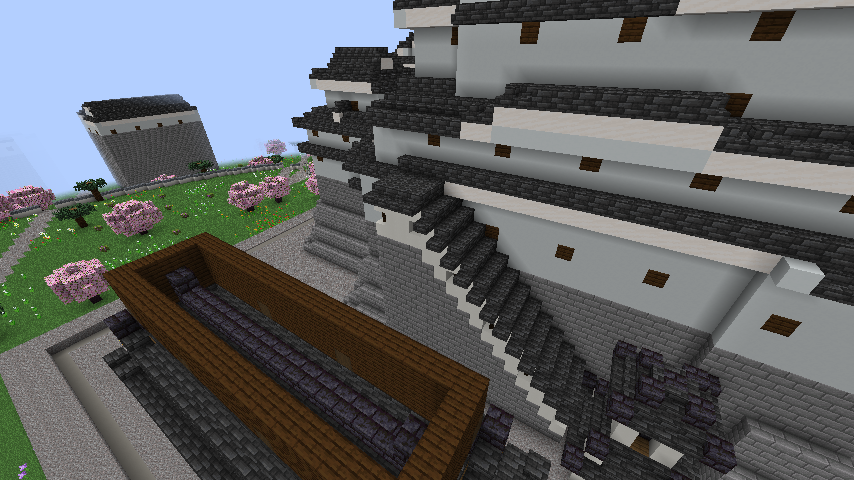
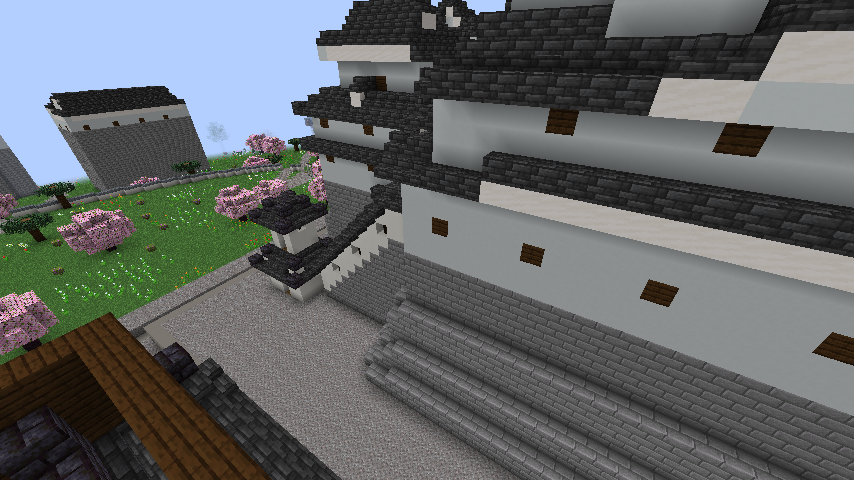
Keep entrance moved to the side wing
The keep is no longer entered through its main body. The surveyed model joins
the small keeps and galleries on to it, and the entrance now goes into that
side wing: the longest stretch of the front set back from the main body's face.
Its door opens at the stone base's top storey, at the end next to the main
body. The covered flight climbs along the wing's face, closed at its upper end
by the main body, and the entrance turret stands at its foot.

diff --git a/core/src/main/java/com/mtm/citybuilder/core/building/landmark/ParkParts.java b/core/src/main/java/com/mtm/citybuilder/core/building/landmark/ParkParts.java
@@ -474,21 +474,51 @@ public final class ParkParts {
     static final int KEEP_BASE = 11;
     /** How far the base's foot spreads out from its face (扇の勾配: steep at the top, flaring at the foot). */
     static final int KEEP_BATTER = 4;
-    /** The keep's first storey's floor over the upper court, where its door opens. */
-    static final int KEEP_DOOR_FLOOR = 12;
+    /** The side wing's floor over the upper court where its door opens: the base's top storey (its 地階). */
+    static final int KEEP_DOOR_FLOOR = 9;
 
     /** The entrance turret's half width (付櫓, at the foot of the keep's flight). */
     static final int ENTRANCE_RADIUS = 3;
 
     /**
-     * The keep's stone base battered and climbed: round its upright masonry a foot of stone that flares out
-     * {@link #KEEP_BATTER} blocks, high by the face and falling away on a concave curve; and up its front, along the
-     * face, a flight of stone steps three wide from the upper court to a landing at the first storey's floor, with a
-     * door cut through the wall there. The flight is not bare: it runs inside a covered gallery (渡櫓: a stone base,
-     * white plaster walls with slit windows, a tiled roof stepping up with it), entered by a small two-storey turret
-     * (付櫓) at its foot whose door faces the court, as the keep of Himeji is entered through its small gates and
-     * turrets. In the court's frame: the keep's corner at (kx, ky, kz), its front to +z, the upper court between x0
-     * and x1 and up to z1.
+     * Where the keep is entered, in the keep model's own frame (front to +z): {first and last column of the door,
+     * the front face's z there, the column of the flight's foot}. Not the main body: the side wing beside it (the
+     * small keeps and galleries the survey joins on to it), the longest stretch of the front that stands back from
+     * the main body's face, its door at the end next to the main body.
+     */
+    static int[] keepEntrance() {
+        Model keep = CastleAsset.KEEP.template();
+        int kw = keep.width();
+        int[] face = new int[kw];
+        java.util.Arrays.fill(face, -1);
+        keep.forEach((x, y, z, state) -> {
+            if (y == 0 && z > face[x]) face[x] = z;
+        });
+        int main = 0;
+        for (int f : face) main = Math.max(main, f);
+        int bestStart = -1, bestLength = 0;
+        for (int x = 0; x < kw; ) {
+            int end = x;
+            while (end + 1 < kw && face[end + 1] == face[x]) end++;
+            if (face[x] >= 0 && face[x] < main - 2 && end - x + 1 > bestLength) {
+                bestStart = x;
+                bestLength = end - x + 1;
+            }
+            x = end + 1;
+        }
+        int runEnd = bestStart + bestLength - 1;
+        return new int[]{runEnd - 2, runEnd, face[runEnd], runEnd - 3 - (KEEP_DOOR_FLOOR - 1)};
+    }
+
+    /**
+     * The keep's stone base battered and entered: round its upright masonry a foot of stone that flares out
+     * {@link #KEEP_BATTER} blocks, high by the face and falling away on a concave curve. It is entered, as Himeji's
+     * is, not through the main body but through the side wing beside it ({@link #keepEntrance}): a small two-storey
+     * turret (付櫓) on the upper court, its door facing the court, opens on to a flight of stone steps three wide that
+     * climbs along the wing's face inside a covered gallery (渡櫓: a stone base, white plaster walls with slit
+     * windows, a tiled roof stepping up with it) to a landing before a door into the wing at the base's top storey.
+     * In the court's frame: the keep's corner at (kx, ky, kz), its front to +z, the upper court between x0 and x1 and
+     * up to z1.
      */
     static void keepBase(Model m, int kx, int ky, int kz, int x0, int x1, int z1) {
         Model keep = CastleAsset.KEEP.template();
@@ -497,28 +527,17 @@ public final class ParkParts {
         keep.forEach((x, y, z, state) -> {
             if (y == 0) foot[x][z] = true;
         });
-        int mid = kx + kw / 2;
-        // The front face along the middle, and the flight's place before it
-        int face = kz;
-        for (int z = kd - 1; z >= 0; z--) {
-            if (foot[kw / 2][z]) {
-                face = kz + z;
-                break;
-            }
-        }
-        int stairZ0 = face + 1, stairZ1 = face + 3;
-        int stairX0 = mid - 1, stairX1 = mid + 1 + KEEP_DOOR_FLOOR;
-        // The gallery round the flight (its outer wall a block out, its west end wall a block past the landing)
-        // and the entrance turret east of its foot
-        int galleryX0 = stairX0 - 1, galleryZ1 = stairZ1 + 1;
-        int turretX0 = stairX1 + 1, turretX1 = turretX0 + 2 * ENTRANCE_RADIUS;
+        int[] entrance = keepEntrance();
+        int doorX0 = kx + entrance[0], doorX1 = kx + entrance[1], face = kz + entrance[2], footX = kx + entrance[3];
+        int stairZ0 = face + 1, stairZ1 = face + 3, galleryZ1 = stairZ1 + 1;
+        int turretX1 = footX - 1, turretX0 = turretX1 - 2 * ENTRANCE_RADIUS;
         int turretZ0 = stairZ0, turretZ1 = turretZ0 + 2 * ENTRANCE_RADIUS;
         String stone = "minecraft:stone_bricks";
         for (int x = x0 + 1; x < x1; x++) {
             for (int z = 1; z < z1; z++) {
                 int lx = x - kx, lz = z - kz;
                 if (lx >= 0 && lx < kw && lz >= 0 && lz < kd && foot[lx][lz]) continue;
-                if (x >= galleryX0 && x <= stairX1 && z >= stairZ0 && z <= galleryZ1 + 1) continue;
+                if (x >= footX && x <= doorX1 + 1 && z >= stairZ0 && z <= galleryZ1 + 1) continue;
                 if (x >= turretX0 - 1 && x <= turretX1 + 1 && z >= turretZ0 && z <= turretZ1 + 1) continue;
                 double d = Double.MAX_VALUE;
                 for (int dx = -KEEP_BATTER; dx <= KEEP_BATTER; dx++) {
@@ -532,45 +551,45 @@ public final class ParkParts {
                 for (int y = 0; y < h; y++) m.set(x, ky + y, z, stone);
             }
         }
-        // The flight: a landing before the door, then a step down each block eastwards to the court
-        for (int x = stairX0; x <= stairX1; x++) {
-            int top = x <= mid + 1 ? KEEP_DOOR_FLOOR : KEEP_DOOR_FLOOR - (x - mid - 1);
-            for (int z = stairZ0; z <= stairZ1; z++) {
-                for (int y = 0; y < top; y++) m.set(x, ky + y, z, stone);
-                m.set(x, ky + top, z, x <= mid + 1 ? "citybuilder:stone_ashlar"
-                        : "minecraft:stone_stairs[facing=west,half=bottom,shape=straight,waterlogged=false]");
-                for (int y = top + 1; y <= top + 3; y++) m.remove(x, ky + y, z);
-            }
-        }
-        // The gallery: its outer wall and west end on a stone base to the step's level, plastered three high with a
-        // slit window every third block, a tiled roof over it a block above the headroom, stepping with the flight
+        // The flight inside its gallery: from its foot a step up each block eastwards to the landing before the
+        // door; the gallery's outer wall a stone base to the step's level, plastered three high with a slit window
+        // every third block, a tiled roof over it stepping up with the flight. Where the main body stands at the
+        // landing's end it closes the gallery; otherwise an end wall does.
         String plaster = "citybuilder:plaster_white", tile = "minecraft:deepslate_tiles";
-        for (int x = galleryX0; x <= stairX1; x++) {
-            int top = x <= mid + 1 ? KEEP_DOOR_FLOOR : KEEP_DOOR_FLOOR - (x - mid - 1);
+        for (int x = footX; x <= doorX1 + 1; x++) {
+            int lx = x - kx;
+            boolean closed = x == doorX1 + 1 && lx < kw && foot[lx][face - kz + 1];
+            if (closed) break;
+            int top = Math.min(KEEP_DOOR_FLOOR, x - footX);
             for (int z = stairZ0; z <= galleryZ1; z++) {
-                boolean outer = z == galleryZ1 || x == galleryX0;
+                boolean outer = z == galleryZ1 || x == doorX1 + 1;
                 if (outer) {
                     for (int y = 0; y <= top; y++) m.set(x, ky + y, z, stone);
                     for (int y = top + 1; y <= top + 3; y++) {
                         m.set(x, ky + y, z, y == top + 2 && z == galleryZ1 && Math.floorMod(x, 3) == 0
                                 ? "minecraft:dark_oak_fence" : plaster);
                     }
+                } else {
+                    for (int y = 0; y < top; y++) m.set(x, ky + y, z, stone);
+                    m.set(x, ky + top, z, x >= doorX0 ? "citybuilder:stone_ashlar"
+                            : "minecraft:stone_stairs[facing=east,half=bottom,shape=straight,waterlogged=false]");
+                    for (int y = top + 1; y <= top + 3; y++) m.set(x, ky + y, z, "minecraft:air");
                 }
                 m.set(x, ky + top + 4, z, tile);
             }
             m.set(x, ky + top + 4, galleryZ1 + 1, "minecraft:deepslate_tile_slab[type=bottom,waterlogged=false]");
         }
-        // The entrance turret: two storeys on the upper court, its door facing the court (+z), open on its west
+        // The entrance turret: two storeys on the upper court, its door facing the court (+z), open on its east
         // side to the flight's foot
         Model turret = new Model();
         com.mtm.citybuilder.core.building.temple.CastleTurret.build(ENTRANCE_RADIUS, 2).forEach((x, y, z, state) ->
                 turret.set(x, y, z, state.equals("minecraft:white_terracotta") ? plaster : state));
         m.place(turret, turretX0, ky - 1, turretZ0, true);
         for (int z = stairZ0; z <= stairZ1; z++) {
-            for (int y = 0; y <= 2; y++) m.set(turretX0, ky + y, z, "minecraft:air");
+            for (int y = 0; y <= 2; y++) m.set(turretX1, ky + y, z, "minecraft:air");
         }
-        // The door: through the wall at the first storey, its sill the floor
-        for (int x = mid - 1; x <= mid + 1; x++) {
+        // The door into the wing: through its base's wall at the top storey, its sill the floor
+        for (int x = doorX0; x <= doorX1; x++) {
             for (int z = face - 1; z <= face; z++) {
                 m.set(x, ky + KEEP_DOOR_FLOOR, z, "minecraft:spruce_planks");
                 for (int y = KEEP_DOOR_FLOOR + 1; y <= KEEP_DOOR_FLOOR + 2; y++) m.set(x, ky + y, z, "minecraft:air");

diff --git a/core/src/test/java/com/mtm/citybuilder/core/building/landmark/CivicTest.java b/core/src/test/java/com/mtm/citybuilder/core/building/landmark/CivicTest.java
@@ -48,36 +48,34 @@ class CivicTest {
             assertTrue(h > 0 && h < previous, "batter at " + d + ": " + h);
             previous = h;
         }
-        // The flight rises a block a step from the court to the landing before the door, which opens on the floor
-        int face = depth - 1;
-        while (!"minecraft:air".equals(court.get(mid, ky + ParkParts.KEEP_DOOR_FLOOR + 1, face))) face--;
-        int z = face + 2;
+        // The door is in the side wing, set back from the main body's face, not in the main body
+        int[] entrance = ParkParts.keepEntrance();
+        int keepFace = 0;
+        for (int z = 0; z < HimejiKeep.depth(); z++) if (court.has(mid, ky, 4 + z)) keepFace = z;
+        assertTrue(entrance[2] < keepFace - 2, "door in the main body's face");
+        int face = 4 + entrance[2], z = face + 2;
+        int doorX = kx + entrance[1] - 1, footX = kx + entrance[3];
+        for (int y = 1; y <= 2; y++) {
+            assertEquals("minecraft:air", court.get(doorX, ky + ParkParts.KEEP_DOOR_FLOOR + y, face), "door");
+        }
+        // The flight rises a block a step from its foot to the landing, under a roof, beside a plastered wall
         int last = -1;
-        for (int x = mid + 1 + ParkParts.KEEP_DOOR_FLOOR; x >= mid + 2; x--) {
+        for (int x = footX; x < kx + entrance[0]; x++) {
             int top = ky;
-            while (court.has(x, top + 1, z)) top++;
+            while (court.has(x, top + 1, z) && !court.get(x, top + 1, z).equals("minecraft:air")) top++;
             assertTrue(court.get(x, top, z).startsWith("minecraft:stone_stairs"), "step at " + x + ": " + court.get(x, top, z));
             if (last >= 0) assertEquals(last + 1, top, "rise at " + x);
             last = top;
-            assertTrue(!court.has(x, top + 1, z) && !court.has(x, top + 2, z), "headroom at " + x);
-        }
-        assertEquals("citybuilder:stone_ashlar", court.get(mid, ky + ParkParts.KEEP_DOOR_FLOOR, z));
-        // The flight is covered: a plastered outer wall beside each step and a roof over it
-        for (int x = mid + 2; x <= mid + 1 + ParkParts.KEEP_DOOR_FLOOR; x++) {
-            int top = ky;
-            while (court.has(x, top + 1, z)) top++;
+            for (int y = 1; y <= 2; y++) assertEquals("minecraft:air", court.get(x, top + y, z), "headroom at " + x);
             assertEquals("citybuilder:plaster_white", court.get(x, top + 1, face + 4), "gallery wall at " + x);
             assertTrue(court.get(x, top + 4, z).startsWith("minecraft:deepslate_tile"), "gallery roof at " + x);
         }
-        // and entered by a turret at its foot, open to the flight, roofed in tiles
-        int turretX = mid + 2 + ParkParts.KEEP_DOOR_FLOOR;
-        assertEquals("minecraft:air", court.get(turretX, ky + 1, z), "turret open to the flight");
+        assertEquals("citybuilder:stone_ashlar", court.get(doorX, ky + ParkParts.KEEP_DOOR_FLOOR, z));
+        // entered by a turret at its foot, open to the flight, roofed
+        assertEquals("minecraft:air", court.get(footX - 1, ky + 1, z), "turret open to the flight");
         boolean roofed = false;
-        for (int y = ky + 9; y <= ky + 16; y++) roofed |= court.has(turretX + ParkParts.ENTRANCE_RADIUS, y, z + 2);
+        for (int y = ky + 9; y <= ky + 16; y++) roofed |= court.has(footX - 1 - ParkParts.ENTRANCE_RADIUS, y, z + 2);
         assertTrue(roofed, "entrance turret roof");
-        for (int y = 1; y <= 2; y++) {
-            assertEquals("minecraft:air", court.get(mid, ky + ParkParts.KEEP_DOOR_FLOOR + y, face), "door");
-        }
     }
 
     @Test

diff --git a/CLAUDE.md b/CLAUDE.md
@@ -102,7 +102,7 @@ gradlew :fabric:runClient / :forge:runClient    # 开发环境客户端（未验
 - **0.0.3-alpha 的修复**（2026-11-23，用户试玩 0.0.2 反馈）：建筑按整个占地每 2.5 格检查铁路（`RailChunks.near(town, …)`）（2026-11-23 起地块先按路基裁小再建，`BuildingLayer.clearOfRails`，离路基 1 格，铁路两侧不再留空地块）（公共建筑的排除按建筑占地每 4 格一点查，以前只查四角和中心，长店铺会跨过小公园）；车站两侧站台加宽（`STATION` 11、`TRACKS` 4.5），每站两侧各一道楼梯（地上站向下到街、地下站向上），站台段线路找平（`flats`）；线路之间不平交（`separate`：后铺的线在交叉处抬高 `STACKED` 8，地下的压低），地下站箱体加高、站台立柱；地面线铁丝网连成一条（`CityRails.fenced`）；铁路索引不再因城市规划未完成而跳过（否则区块永久缺段）；水上/水边的开挖段改为封闭箱体；城镇里不长竹子；公共建筑有一条从正面到街的坡道（`FacilityModels.access`，`Placed.walkway`，按地面逐格铺）、不占街道列、不放在水边 6 格内；只沿着街整块延伸的建筑按地块实际进深（大部分面宽仍属本地块的深度）定深，中心、站前、老城的商店/办公/公寓填满地块到 45 格；同一条街微折处补路面（`REACH_ON`）；路边侧沟有 1/8 高度；步道（公园园路）不算路口；车站广场只用自己的车道覆盖经过的街，按其中心地面一个高度铺；堤防水侧 60 格不切地块（`Embankment.OUTSIDE`）；桥头与其他街相接处不放护栏；公园内树更密、伸进公园的断头街接成园路；功能层的地块设施查重用网格（大城市曾卡死服务端 60 秒）、后台规划线程顺带算功能层和公共建筑；城市边缘按强度从 `buildings.fringe` 0.4 起逐渐空置（最多再空 `fringeVacant` 0.65），城外农田和边缘空地铺成田（`ChunkLayer.field`、`world.CityFarms`：32×20 的田块，水田为主，田埂土路，有 12% 留作树林或荒地，田上不长树）；测试客户端不抓鼠标。城市间距加大和城市缩小试过但会移动所有城镇、测试的坐标都要改，暂未采用
 - **地下站和隧道整体生成**（2026-11-23）：`RailStructures.buried` 把城内线的地下站铺成结构库的明挖车站 `UndergroundStation`（站厅、站台、楼梯扶梯、两个出口上到街道外侧，天花板每 4 格加灯），`RailStructures.tunnels` 把轨面在地面以下 9 格以上的线段铺成 `CutCoverTunnel`；`Built` 分地上掩码（`structureColumns`，建筑避开）和地下掩码（`undergroundColumns`，`CityRails` 不再逐格铺箱体）。太浅放不下两层、站台太短或和别的线的车站重叠时退回逐格铺；深埋站、盾构、换乘站没接。测试 `SubwayStructuresTest`，用例 `cases/subway.spec.mjs`
 - **建筑密度和护岸**（2026-11-23）：`cityMap -Players=buildings` 打印与京都同口径的圆环毛覆盖率、容积率和每环土地去向（`BuildingStats`，"无地块"的原因由 `TownPlots.whyNone` 给出）。护岸的水面不高于岸边地面、背坡最多降 2 × `leveeHeight`（`StreetLayer.crest`；曾把山上的湖当成水面，整条护岸的 `land` 达 361 格，三四成的城没有地块）；修后城下町覆盖率 41/29/21/20/15%；再让老城町家填到地块深处（`MACHIYA_DEEPEST` 24）、两层以上最窄边 4.5（`NARROWEST_UPPER`）、减少老城和町家的平屋后为 42/32/23/23/17%（京都 57/51/44/39/34%），1 层 15.7%，见设计文档"京都实测"。城里没有建筑的临街地块（离铁路 6 格内和中心、站前、老城片区全部，其余七成）和后排停车场地块铺成停车场（`ChunkLayer.lot`、`world.CityLots`：沥青或碎石、车位线），高架下面铺沥青；以前这些都是草地。`StreetLayer.unoverlap` 也拿掉中线九成在更宽路面里的路段（不论方向）。工作流程和现状的总说明在 `docs/overview.md`
-- **建筑布局版本**（2026-11-24）：改变地块、建筑尺度、站前、城址这类布局的修改按维度锁版本：`CitySettings.forBuildingLayout` 读规划库里的 `layout/building_scale`（一个字节），新维度写当前版本（10），已有规划但没有这个键的写 1；各版本打开的开关列在该方法里（如 9 的 `plots.followStreetEdges`、10 的 `buildings.terracedBaileys`、8 的 `castleWards`/`continuousCarriageways` 等），不支持的版本抛异常。加新布局时：加开关、版本号加一、`CitySettingsTest` 补一行、`autotest/run.mjs` 的 `AUTOTEST_LAYOUT` 取值范围加一。布局 9：街宽沿并道连续变化（`ChunkLayer.StreetWidths`），地块进深、临街边和路肩挖填都按局部路宽；中心、站前、工业、港区的临街处留两格和人行道同高的人行道砖前沿（`CityChunks.verge`），再接边坡或挡土墙（挡土墙带宽 1.5 格，斜着走也不漏列）；临街空地铺平滑石（`Plot.hardFrontage`）；街尾够两块地时给最后一块留足面宽；两层以上的短边至少 6 格。用例 `autotest/cases/urban-frontage.spec.mjs`（`AUTOTEST_LAYOUT=9`），说明见 `autotest/README.md`"布局 9 的街边与建筑回归"和设计文档"布局 9 的街边地形和地块"。布局 10：外堀以内的曲轮分级成台地（`CastleTerrain.rise`，每级 4 格；落差处是间知石的石垣、顶上白漆喰加瓦顶的土塀，街道和园路处断开，`Cell.wall`/`faced`），二之丸中部最高、本丸向中心升，靠堀的一条不变；园路按不分级的坡度 `crossing` 铺，近本丸门接院落地坪；姬路大天守的石台外圈加扇勾配的石砖裙脚、正面沿墙有石阶上到天守一层的门，石阶包在渡橹里、脚下是两层付橹作入口（`ParkParts.keepBase`，布局 10 的 `buildings.batteredKeep`）；用例 `castle-wards.spec.mjs`、`castle-overview.spec.mjs`（`AUTOTEST_LAYOUT=10`），见设计文档"内侧曲轮的台地"
+- **建筑布局版本**（2026-11-24）：改变地块、建筑尺度、站前、城址这类布局的修改按维度锁版本：`CitySettings.forBuildingLayout` 读规划库里的 `layout/building_scale`（一个字节），新维度写当前版本（10），已有规划但没有这个键的写 1；各版本打开的开关列在该方法里（如 9 的 `plots.followStreetEdges`、10 的 `buildings.terracedBaileys`、8 的 `castleWards`/`continuousCarriageways` 等），不支持的版本抛异常。加新布局时：加开关、版本号加一、`CitySettingsTest` 补一行、`autotest/run.mjs` 的 `AUTOTEST_LAYOUT` 取值范围加一。布局 9：街宽沿并道连续变化（`ChunkLayer.StreetWidths`），地块进深、临街边和路肩挖填都按局部路宽；中心、站前、工业、港区的临街处留两格和人行道同高的人行道砖前沿（`CityChunks.verge`），再接边坡或挡土墙（挡土墙带宽 1.5 格，斜着走也不漏列）；临街空地铺平滑石（`Plot.hardFrontage`）；街尾够两块地时给最后一块留足面宽；两层以上的短边至少 6 格。用例 `autotest/cases/urban-frontage.spec.mjs`（`AUTOTEST_LAYOUT=9`），说明见 `autotest/README.md`"布局 9 的街边与建筑回归"和设计文档"布局 9 的街边地形和地块"。布局 10：外堀以内的曲轮分级成台地（`CastleTerrain.rise`，每级 4 格；落差处是间知石的石垣、顶上白漆喰加瓦顶的土塀，街道和园路处断开，`Cell.wall`/`faced`），二之丸中部最高、本丸向中心升，靠堀的一条不变；园路按不分级的坡度 `crossing` 铺，近本丸门接院落地坪；姬路大天守的石台外圈加扇勾配的石砖裙脚、入口在侧楼（`keepEntrance`：正面比主体退后的一段），石阶沿侧楼正面包在渡橹里、脚下两层付橹作入口，门开在石台顶层（`ParkParts.keepBase`，布局 10 的 `buildings.batteredKeep`）；用例 `castle-wards.spec.mjs`、`castle-overview.spec.mjs`（`AUTOTEST_LAYOUT=10`），见设计文档"内侧曲轮的台地"
 - **高架和车站整体生成**（2026-11-23，用户：启用车站和高架的多样化模型、调整车站尺寸、铁路不被建筑和道路覆盖）：`chunk.RailStructures` 在 `RailChunks` 建城的索引时把地上段的高架（混凝土 T 墩/双柱、刚构、红砖拱，配色和隔音墙按种子；沿街段只用单柱 T 墩）和车站（`ElevatedStation` 两侧或岛式、压在街上时夹层站厅；`GroundStation` 站房在旁或跨线；主站按等级加股道，站房在广场一侧）按线形和坡度铺成世界坐标的方块，按区块打包存（`RailChunks.structures`/`structureColumns`），`CityRails.structures` 在逐格铺的铁路之后放；这些列不再逐格铺桥面和站台，`clear` 不清，`near` 让建筑避开。桥墩只避开横穿的街（`RailStructures.Streets`）；压在街上的桥墩改门型或倒 L 型（`RailStructures.portal`），T 墩只立在林荫大道中央带上；线路交叉上下轨面差 `RailChunks.OVER` 11。站台长度按城市等级（`transit.platformLength`/`platformLengthCity`/`platformLengthTown`，主站 `mainLength*`）。城际线穿过沿途的镇和村现在照铺（`RailChunks.cut`/`through`），城内段把走廊在建成区里的一段也收进来（`CityRailway.entry` 是走廊进建成区的样点）；地面线上顺向的街让给路基。测试 `RailStructuresTest`，见设计文档"高架铁路"
 - **铁路的交叉、主站和站前广场**（2026-11-23，用户试玩 0.0.3 反馈）：一列里所有铺得到的线段都算，取最高的那条，下面深出 6 格以上的地铁作为 `Cell.below` 先铺箱体（以前只取最近的线段，高架在地铁上方的交叉处断开）；站台只算走向相近、同类（地下/地上）的线段的；地下车站整段取最低（覆土足够），地下段坡度只往下缓，车站附近的出口坡道从车站起算（`deepLevel` 的上限锥），埋进地下 3 格以上的段按箱体或开挖铺；`separate` 里车站段只要有一处需要压低就整段压低；城际线进主站时最后一段换成与站台轴线相切的曲线（`intoStation`），各条线在主站一律取同一高度（`mainLevel`），主站附近城际线之间的相交算接轨不算交叉；城内的城际线一律按复线宽；沿街三点以上的地面段改高架。站前广场的铺装暂停过，之后重做（同日）：车站和广场是一个地块（`Plot.Use.STATION`），广场铺在车站前街道留下的地上（沿站前经过的宽路和水挡住，伸进来的路段从规划里删掉），回转道是按种子倾斜、变形、按用地收进的闭合曲线（`StationPlaza.Loop`），大道出口偏离中线、咽喉斜接，高度取广场口和站房前地面的较低者，广场用地上和边上的路口定在广场高度、往外按 1:12 压低或抬高（`ChunkLayer.squares`），伸到广场边的车行街接进回转道（`StationPlaza.Entry`），接不上的（与大道成 Y 字的另一臂）删回到路口（`StreetLayer.prune`），广场只用自己的车道盖街、用地包含自己的连接路，`plazaPaving` 重新打开（见设计文档 L5"站前广场"）。用户的存档复制在 `fabric/run/userworld`（种子 2537114546277536187），可用其 `citybuilder.db` 复现
 - **重叠的路和挤在一起的路口**（2026-11-23，用户要求）：两条城际道路在城里同路只铺一条古道（`StreetLayer.oldRoads`，`ChunkLayer.oldRoad` 按古道路面判断）；路网铺完后去掉九成落在同向、更高等级路面里的地面路段，接在上面的街改接到那条路并切出路口（`StreetLayer.unoverlap`），三路以上的路口相距不到 5 格的并成一个（`crowded`）；都避开桥、水面、水渠和站前大道的广场口，见设计文档 L6

diff --git a/docs/city-logic-design.md b/docs/city-logic-design.md
@@ -1217,7 +1217,7 @@ L6–L8 按下面的步骤把街区变成建筑，每种风格的做法不同：
   - **首轮实现（本丸范围）**：城址锚点被街道占用时，功能层尝试从旁边可用的城址用地开始洪泛。设施层优先在锚点周围寻找容得下本丸并能通向园路或街道的用地，朝可接入的一边布置城门；门前铺连接道。下院高出基准地面 2 格，上院随用地进深升到 4–7 格，由石阶连接。没有天守时有一座角橹，有天守地标时生成双层屋顶塔楼。本阶段先落地本丸及入口。外堀桥头到各曲轮的标高、沿堀的橹和渡橹，以及版本 8 的游戏内步行验收见本节跟踪表。
   - **姬路城天守进入世界生成（建筑尺度版本 6，2026-11-24）**：有天守地标的城址公园优先为 PLATEAU 原尺寸基座选址。模型占地 55 × 44 格、高 44 格；本丸连同城门、石阶和台地预留约 63–65 × 66–68 格，可整体旋转接入实际园路。完整用地或出入口不合适时沿用小型程序化塔楼，无天守的城址保留角橹。种子 12345 的城下町实服生成于本丸 X=-10819 至 -10752、Z=-9317 至 -9253，基准 Y=73。读取保存后的区块逐一核对，20282 个天守模板方块的材质均吻合。版本 8 在沿堀的可用用地试放渡橹、西之丸廊下；整段放不下时尝试在角橹旁接一段短渡橹。种子 12345 的实测样本采用短渡橹。
   - **内侧曲轮的台地（建筑布局版本 10，2026-11-24，用户：最外层还行，内部两层本身太平了没有起伏）**：版本 8、9 的每个曲轮各是一整片平地，只在堀边升 3–8 格。版本 10 起外堀以内的曲轮分成几级台地（段々の曲輪），每级高 `CastleTerrain.STEP` 4 格。落差处是石垣和城墙（同日，用户：凸起的断层要用石垣、城墙）：高的一侧贴边那一列从下到顶全用本 mod 的间知石 `stone_ashlar` 砌，顶面也是石，上面立一道土塀（白漆喰 `plaster_white` 一格，盖瓦顶 `roof_kawara_slab` 半格，`Cell.wall`），街道和园路经过的列不立塀（`CityChunks.castleGround`）；高于旁边的是堀时（曲轮靠堀的边）照旧用堀的石砖、不立塀。截图 [台地的石垣和土塀](screens/castle-terrace-wall-v10.png)。台地：两道堀之间的曲轮（二之丸）在带子中部最高，最多 3 级，靠两道堀各留带宽 `FLAT` 0.22 的一条保持原高度，所以城门、桥、橹、渡橹都还站在平地上；最内的本丸向中心升，最多 2 级，本丸的院落（天守台）放在最高一级上。台地的边界不是同心圆：按平滑噪声（波长 90）和该处原地形比堀边中位数高多少偏移，地势高的一侧台地多。总落差不超过带宽一半乘以 0.5 × (1 − `FLAT`)，窄的曲轮台地少。园路和登城路按不分级的同一坡度走（`Cell.crossing`），在高的台地上切进去、低的台地上垫起来（`FacilityModels` 的城内步道按坡度铺，近本丸门处再接到院落地坪，`parkGrade`）；街道本来就按 `crossing` 铺。最外层的曲轮和各道堀不变。种子 12345 城下町：三座外堀桥到天守上层石阶的步行路线都通（332、394、480 步，`castle-wards.spec.mjs`），截图 [二之丸的台地](screens/castle-terraces-v10.png)、[另一侧](screens/castle-terraces-v10-sw.png)（`castle-overview.spec.mjs`，同时输出过天守中心的东西、南北断面 `build/debug/castle-overview/section.json`）。测试 `CastleTerrainTest.innerBaileysRiseInFacedTerraces`。
-  - **天守台的斜坡和登天守的石阶（2026-11-24，用户：天守阁下面要加坡，石垣斜面和坡道两样都要）**：PLATEAU 的姬路大天守自带 11 层高、垂直的石砖天守台。`ParkParts.keepBase` 在它外圈加一道向外放开的石砖裙脚（扇の勾配）：离石台面 d 格处高 `KEEP_BASE` 11 × (1 − d/5)²，即 7、4、2 格，最多伸出 `KEEP_BATTER` 4 格，只铺在本丸上段的院子里（西侧院子只有 2 格宽，裙脚也只有两级）。正面沿石台面修一道 3 格宽的石阶（`stone_stairs`），从上段院子一级一格升到 `KEEP_DOOR_FLOOR` 12 格高的平台（间知石），平台对着天守一层地板，在墙上开 3 × 2 的门进去。石阶不露天（同日，用户参照姬路城的水之四门、水五门：天守旁边应该是小楼作为入口，而不是裸露的台阶）：整段石阶包在渡橹里——外侧和西端一道墙，石砖基座到台阶面、上面三格白漆喰、每三格一个木格狭间，顶上一层瓦随台阶一级级升高、外檐挑出半格；石阶脚下是两层的付橹（`ENTRANCE_RADIUS` 3，7 × 7，白漆喰、寄栋瓦顶，`CastleTurret` 换了墙材），门朝本丸院子，西墙开口接石阶。截图 [付橹和渡橹](screens/castle-keep-entrance-v10.png)。只用于有原尺寸大天守的本丸；小型程序化天守（`CastleTurret`）没有天守台，没改。种子 12345 城下町：从本丸上段石阶顶走到天守门 31 步（`castle-overview.spec.mjs`），截图 [天守台和石阶](screens/castle-keep-base-v10.png)；测试 `CivicTest.keepBaseIsBatteredAndClimbedToADoor`。同属布局 10（`buildings.batteredKeep`），旧存档的本丸不变。
+  - **天守台的斜坡和登天守的石阶（2026-11-24，用户：天守阁下面要加坡，石垣斜面和坡道两样都要）**：PLATEAU 的姬路大天守自带 11 层高、垂直的石砖天守台。`ParkParts.keepBase` 在它外圈加一道向外放开的石砖裙脚（扇の勾配）：离石台面 d 格处高 `KEEP_BASE` 11 × (1 − d/5)²，即 7、4、2 格，最多伸出 `KEEP_BATTER` 4 格，只铺在本丸上段的院子里（西侧院子只有 2 格宽，裙脚也只有两级）。入口在侧楼而不在主体（同日，用户参照姬路城的水之四门、水五门：天守旁边应该是小楼作为入口，而不是裸露的台阶；入口不在主体侧在侧楼）：PLATEAU 模型把小天守和渡橹连在大天守上，`ParkParts.keepEntrance` 找正面比主体面退后最多、最长的一段（种子模型里是西侧的侧楼，x 6–19，正面比主体退 6 格），门开在它靠主体的一端、石台顶层（地上 `KEEP_DOOR_FLOOR` 9 格，侧楼这一层的楼板），3 × 2。门前是间知石平台，一道 3 格宽的石阶（`stone_stairs`）沿侧楼正面从西向东一级一格升上去，整段包在渡橹里：外侧一道墙，石砖基座到台阶面、上面三格白漆喰、每三格一个木格狭间，顶上一层瓦随台阶升高、外檐挑出半格，东端由大天守主体封住；石阶脚下是两层的付橹（`ENTRANCE_RADIUS` 3，7 × 7，白漆喰、寄栋瓦顶，`CastleTurret` 换了墙材），门朝本丸院子，东墙开口接石阶。截图 [侧楼的付橹和渡橹](screens/castle-keep-entrance-v10.png)。只用于有原尺寸大天守的本丸；小型程序化天守（`CastleTurret`）没有天守台，没改。种子 12345 城下町：从本丸上段石阶顶经付橹走到侧楼的门 44 步（`castle-overview.spec.mjs`）；测试 `CivicTest.keepBaseIsBatteredAndClimbedToADoor`。同属布局 10（`buildings.batteredKeep`），旧存档的本丸不变。
   - **大天守本丸的主门（建筑尺度版本 7）**：版本 6 的单层门配原尺寸天守时偏矮，门洞净高仅 3 格，屋檐轮廓 11 × 5 格。大天守院落改用双层门楼，屋檐轮廓 25 × 9 格，门洞保持 7 格净宽，梁下净高增至 5 格；正面的石阶也按 7 格宽接入。小型本丸和较早版本存档沿用原门。版本 8 的大天守主门保留 7 格净宽与原先屋脊标高，将下檐抬高 1 格。种子 12345 在实际生成的门楼下逐列测量，7 × 9 格范围共 63 列，从路面碰撞顶到最低上方方块的净高为 6–8 格。
   - 空地内高差超过 15 格的是山城，用空堀，外堀的折角顺着坡往下落到一半高差处，堀因此贴着山走；否则是水堀。
   - 外堀某个折角与城之间有河或水面时，这一段不挖，由河充当堀。
